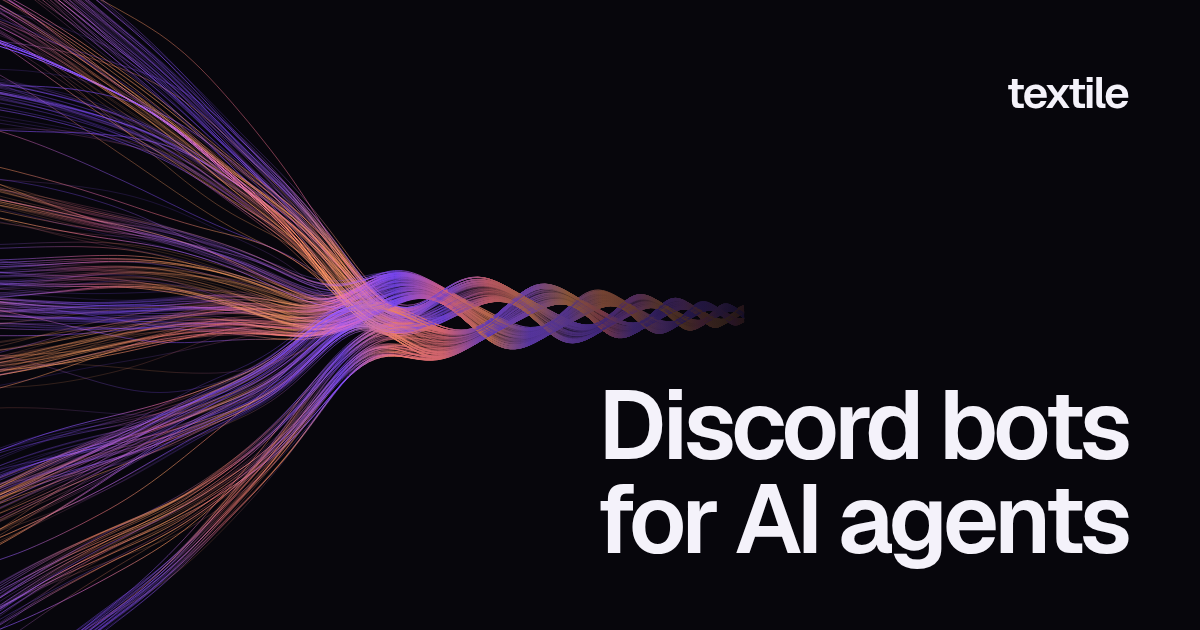
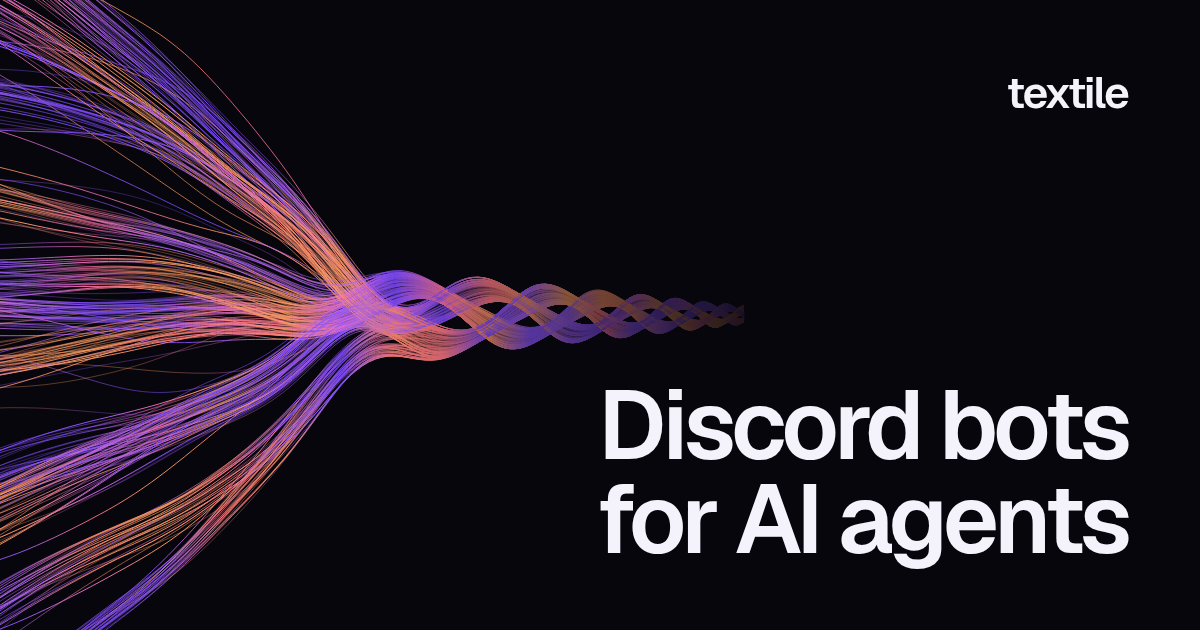
fix(web): loose fibres glow as the same light fanned out, and dim only right behind text
- A loose fibre's own light no longer skews dark: the dimmest gives 0.22 of the brightest, not 0.1, and the spread
  is squared rather than cubed. Loose, it glows 1.7 times that, in the hero and in the cord, so the current and the
  cord's spread strands read as the braid's light fanned out. The braid stays the hottest light, and the colours stay
  saturated after AgX.
- The hero's field now dims behind its headline, subline, and buttons, smoothly and only there, as the cord already
  did behind section prose; the cord dims further there, to 4% over a 120px fade, so the brighter strands and their
  glare stay off the words. Measured over the brightest 1% of field pixels behind each, with text shadows off: the
  headline at 4.6:1 (large text, needs 3:1), the subline 11.7:1, the section prose 6.9 to 7.8:1.

Changed region(s): [[0.0, 0.0, 0.3083, 1.0]]

diff --git a/apps/web/src/lib/threads/shaders.ts b/apps/web/src/lib/threads/shaders.ts
@@ -10,7 +10,16 @@ import {
   TEXELS,
   UNBRAID,
 } from './cord'
-import { CROWD, MAX_LABELS, OKLAB, SEGMENTS, SHAPE } from './geometry'
+import {
+  CROWD,
+  MAX_LABELS,
+  MAX_TEXT,
+  OKLAB,
+  SEGMENTS,
+  SHAPE,
+  TEXT_FADE,
+  TEXT_LIGHT,
+} from './geometry'
 
 /** A matrix given by rows as a shader's mat3 arguments, which run by columns. */
 const columns = (rows: ReadonlyArray<ReadonlyArray<number>>) =>
@@ -45,9 +54,10 @@ const OKLAB_RGB = columns(OKLAB.rgb)
  *   4–7  labels: at, lane
  *   8–9  colours: violet, amber
  *   10 background rgb, exposure
- *   11 where the plait is whole, where the bundles start to gather, -, -
+ *   11 where the plait is whole, where the bundles start to gather, how many text boxes, -
+ *   12–14  text boxes over the field: left, top, right, bottom
  */
-export const UNIFORM_VEC4S = 12
+export const UNIFORM_VEC4S = 15
 export const VERTICES_PER_THREAD = (SEGMENTS + 1) * 2
 /** The first bloom target's size, as a fraction of the canvas's CSS size: the same glare at every pixel ratio. */
 export const BLOOM_SCALE = 0.25
@@ -157,6 +167,8 @@ const constants = (declare: (name: string, value: string) => string) =>
     declare('SPIN', float(SHAPE.spin)),
     declare('LABELLED', float(SHAPE.labelled)),
     declare('DIM', float(SHAPE.dim)),
+    declare('SKEW', float(SHAPE.skew)),
+    declare('GLOW', float(SHAPE.glow)),
     declare('COHERENCE', float(SHAPE.coherence)),
     declare('GRADIENT', float(SHAPE.gradient)),
     declare('BRAID_GRADIENT', float(SHAPE.braidGradient)),
@@ -201,6 +213,10 @@ const constants = (declare: (name: string, value: string) => string) =>
     declare('LEVELS', float(BLOOM_LEVELS)),
     // How much more saturated than AgX's base look the tone map leaves colour.
     declare('SATURATION', float(1.5)),
+    // How much light shows behind text over the hero's field, and where its dimming fades: see behindText in geometry.ts.
+    declare('TEXT_LIGHT', float(TEXT_LIGHT)),
+    declare('TEXT_FADE_IN', float(TEXT_FADE[0])),
+    declare('TEXT_FADE_OUT', float(TEXT_FADE[1])),
   ].join('\n')
 
 /** What every WGSL thread module and the tone pass share, for a scene of `vec4s` uniforms. */
@@ -408,6 +424,17 @@ fn threadOf(i: f32) -> Thread {
   return Thread(lane, pin, leaves, joins, strandOf(side), phase, fibre(i, across), ribbon, wander, select(1.0, TRACED, lead));
 }
 
+// How much of a thread's light shows at p: less behind the text over the field. Mirrors behindText in geometry.ts.
+fn behindText(p: vec2f) -> f32 {
+  var light = 1.0;
+  for (var r = 0u; r < u32(U[11].z); r++) {
+    let box = U[12u + r];
+    let outside = max(max(box.x - p.x, p.x - box.z), max(box.y - p.y, p.y - box.w));
+    light = min(light, mix(TEXT_LIGHT, 1.0, smoothstep(TEXT_FADE_IN, TEXT_FADE_OUT, outside)));
+  }
+  return light;
+}
+
 // Where a thread is u along it: in CSS px, how far it has gathered into its strand (0 to 1), how far the plait has
 // grown, and its strand's depth in the plait.
 struct Placed { at: vec2f, braided: f32, plait: f32, depth: f32 };
@@ -464,17 +491,17 @@ fn vs(@builtin(vertex_index) vi: u32, @builtin(instance_index) ii: u32) -> Out {
   let breathing = breath(th.strand, u, t);
   let hue = hueOf(u, eased(U[3].x, mix(U[3].x, U[11].x, PLAIT), u), mix(pick, th.strand / 3.0, here.braided), t, breathing);
   let colour = blend(cool(warmth(hue), here.depth, knit));
-  var own = DIM + (1.0 - DIM) * pow(hash(i + 2.2), 3.0);
+  var own = DIM + (1.0 - DIM) * pow(hash(i + 2.2), SKEW);
   if (th.lead > 1.0) { own = 1.0; }
   if (i < U[3].w) { own = LABELLED; }
   // Bands in front of the braid catch the light; those behind fall into shadow. Many threads share the braid, so
   // each gives less light there, its band's edges more than its inside.
-  let shade = mix(own, braidLight(here.depth, th.fibre, own), knit) * th.lead * (1.0 + BREATH_LIGHT * breathing) * smoothstep(0.0, 0.06, u);
+  let shade = mix(own * GLOW, braidLight(here.depth, th.fibre, own), knit) * th.lead * (1.0 + BREATH_LIGHT * breathing) * smoothstep(0.0, 0.06, u);
 
   var out: Out;
   let res = U[0].xy;
   out.clip = vec4f(pos.x / res.x * 2.0 - 1.0, 1.0 - pos.y / res.y * 2.0, 0.0, 1.0);
-  out.colour = colour * shade * U[3].z;
+  out.colour = colour * shade * U[3].z * behindText(here.at);
   out.across = side;
   out.pulse = vec2f(
     u * PULSES - t * PULSE_SPEED * PULSES + hash(i + 6.6) * (1.0 - here.braided),
@@ -723,6 +750,17 @@ Thread threadOf(float i) {
   return Thread(lane, pin, leaves, joins, strandOf(side), phase, fibre(i, across), ribbon, wander, lead ? TRACED : 1.0);
 }
 
+float behindText(vec2 p) {
+  float light = 1.0;
+  for (int r = 0; r < ${MAX_TEXT}; r++) {
+    if (float(r) >= U[11].z) break;
+    vec4 box = U[12 + r];
+    float outside = max(max(box.x - p.x, p.x - box.z), max(box.y - p.y, p.y - box.w));
+    light = min(light, mix(TEXT_LIGHT, 1.0, smoothstep(TEXT_FADE_IN, TEXT_FADE_OUT, outside)));
+  }
+  return light;
+}
+
 struct Placed { vec2 at; float braided; float plait; float depth; };
 
 Placed place(Thread th, float u) {
@@ -770,12 +808,12 @@ void main() {
   float breathing = breath(th.strand, u, t);
   float hue = hueOf(u, eased(U[3].x, mix(U[3].x, U[11].x, PLAIT), u), mix(pick, th.strand / 3.0, here.braided), t, breathing);
   vec3 colour = blend(cool(warmth(hue), here.depth, knit));
-  float own = i < U[3].w ? LABELLED : th.lead > 1.0 ? 1.0 : DIM + (1.0 - DIM) * pow(hash(i + 2.2), 3.0);
-  float shade = mix(own, braidLight(here.depth, th.fibre, own), knit) * th.lead * (1.0 + BREATH_LIGHT * breathing) * smoothstep(0.0, 0.06, u);
+  float own = i < U[3].w ? LABELLED : th.lead > 1.0 ? 1.0 : DIM + (1.0 - DIM) * pow(hash(i + 2.2), SKEW);
+  float shade = mix(own * GLOW, braidLight(here.depth, th.fibre, own), knit) * th.lead * (1.0 + BREATH_LIGHT * breathing) * smoothstep(0.0, 0.06, u);
 
   vec2 res = U[0].xy;
   gl_Position = vec4(pos.x / res.x * 2.0 - 1.0, 1.0 - pos.y / res.y * 2.0, 0.0, 1.0);
-  vColour = colour * shade * U[3].z;
+  vColour = colour * shade * U[3].z * behindText(here.at);
   vAcross = side;
   vPulse = vec2(
     u * PULSES - t * PULSE_SPEED * PULSES + hash(i + 6.6) * (1.0 - here.braided),
@@ -930,9 +968,9 @@ const cordConstants = (declare: (name: string, value: string) => string) =>
     declare('DRIFT_SPAN', float(DRIFT_SPAN)),
     // How far above its tip the cord fades into the page, in px: 14rem.
     declare('FADE', float(224)),
-    // How bright loose strands are, behind a section, and how much of that shows behind its prose.
-    declare('LOOSE_LIGHT', float(0.55)),
-    declare('COPY_LIGHT', float(0.2)),
+    // How much of the strands' light shows behind a section's prose.
+    declare('COPY_LIGHT', float(0.04)),
+    declare('COPY_FADE', float(120)),
     declare('LOOSE_HUE', float(LOOSE_HUE)),
     // How many of a peeling strand's fibres, along its outer edge, carry the lead on when it peels from the cord.
     declare('PEEL_LEAD', float(PEEL_LEAD)),
@@ -1026,13 +1064,14 @@ fn place(th: Thread, k: f32) -> Placed {
   return Placed(a.xy + vec2f(drift, 0.0) + c.xy * mix(plait, rope, apart), loose, apart, depthOf(twist), b.x, c.z, b.w, c.w);
 }
 
-// How much light shows at p: less behind a section's prose, fading in over a few pixels around it.
+// How much light shows at p: less behind a section's prose, fading back in over COPY_FADE px around it, so neither
+// the strands nor their glare cross the words.
 fn behindCopy(p: vec2f) -> f32 {
   var light = 1.0;
   for (var r = 0u; r < u32(U[2].z); r++) {
     let box = U[11u + r];
     let outside = max(max(box.x - p.x, p.x - box.z), max(box.y - p.y, p.y - box.w));
-    light = min(light, mix(COPY_LIGHT, 1.0, smoothstep(-8.0, 40.0, outside)));
+    light = min(light, mix(COPY_LIGHT, 1.0, smoothstep(0.0, COPY_FADE, outside)));
   }
   return light;
 }
@@ -1068,9 +1107,9 @@ fn vs(@builtin(vertex_index) vi: u32, @builtin(instance_index) ii: u32) -> Out {
   // The lead burns brighter all the way down, on the cord and on the strand that carries it on where the cord ends:
   // TRACED times the brightest of the rest.
   let leads = th.lead * here.leads;
-  let own = mix(DIM + (1.0 - DIM) * pow(hash(i + 2.2), 3.0), 1.0, leads);
+  let own = mix(DIM + (1.0 - DIM) * pow(hash(i + 2.2), SKEW), 1.0, leads);
   let lead = 1.0 + (TRACED - 1.0) * leads;
-  let shade = mix(own * LOOSE_LIGHT, braidLight(here.depth, th.fibre, own), knit) * lead * (1.0 + BREATH_LIGHT * breathing);
+  let shade = mix(own * GLOW, braidLight(here.depth, th.fibre, own), knit) * lead * (1.0 + BREATH_LIGHT * breathing);
   // The cord fades out over FADE above its tip, and dims behind prose.
   let tip = 1.0 - smoothstep(U[1].z - FADE, U[1].z, here.at.y);
 
@@ -1165,7 +1204,7 @@ float behindCopy(vec2 p) {
     if (float(r) >= U[2].z) break;
     vec4 box = U[11 + r];
     float outside = max(max(box.x - p.x, p.x - box.z), max(box.y - p.y, p.y - box.w));
-    light = min(light, mix(COPY_LIGHT, 1.0, smoothstep(-8.0, 40.0, outside)));
+    light = min(light, mix(COPY_LIGHT, 1.0, smoothstep(0.0, COPY_FADE, outside)));
   }
   return light;
 }
@@ -1192,9 +1231,9 @@ void main() {
   float hue = hueOf(0.0, 0.0, th.strand / 3.0 + LOOSE_HUE * (pick - 0.5) * here.loose, t, breathing) + here.hue + U[2].y;
   vec3 colour = blend(cool(warmth(hue), here.depth, knit));
   float leads = th.lead * here.leads;
-  float own = mix(DIM + (1.0 - DIM) * pow(hash(i + 2.2), 3.0), 1.0, leads);
+  float own = mix(DIM + (1.0 - DIM) * pow(hash(i + 2.2), SKEW), 1.0, leads);
   float lead = 1.0 + (TRACED - 1.0) * leads;
-  float shade = mix(own * LOOSE_LIGHT, braidLight(here.depth, th.fibre, own), knit) * lead * (1.0 + BREATH_LIGHT * breathing);
+  float shade = mix(own * GLOW, braidLight(here.depth, th.fibre, own), knit) * lead * (1.0 + BREATH_LIGHT * breathing);
   float tip = 1.0 - smoothstep(U[1].z - FADE, U[1].z, here.at.y);
 
   vec2 res = U[0].xy;

diff --git a/apps/web/src/lib/threads/geometry.ts b/apps/web/src/lib/threads/geometry.ts
@@ -37,7 +37,28 @@ export interface Field {
   readonly intensity: number
   /** The first threads carry these labels, in order. At most four. */
   readonly labels: ReadonlyArray<Label>
+  /**
+   * Boxes of text over the field, as left, top, right, bottom in its pixels: threads passing behind them dim, smoothly
+   * and only there, so the text reads over the field's light. At most MAX_TEXT.
+   */
+  readonly text?: ReadonlyArray<readonly [left: number, top: number, right: number, bottom: number]>
 }
+
+export const MAX_TEXT = 3
+/**
+ * How much of a thread's light shows behind text, and how its dimming fades out: from TEXT_FADE[0] px inside a text
+ * box's edge to TEXT_FADE[1] px outside it.
+ */
+export const TEXT_LIGHT = 0.25
+export const TEXT_FADE = [-8, 32] as const
+
+/** How much of a thread's light shows at `x`, `y` on `field`: less behind its text. Mirrors `behindText` in the shaders. */
+export const behindText = (field: Field, x: number, y: number) =>
+  (field.text ?? []).slice(0, MAX_TEXT).reduce((light, [left, top, right, bottom]) => {
+    const outside = Math.max(left - x, x - right, top - y, y - bottom)
+    const t = Math.min(1, Math.max(0, (outside - TEXT_FADE[0]) / (TEXT_FADE[1] - TEXT_FADE[0])))
+    return Math.min(light, TEXT_LIGHT + (1 - TEXT_LIGHT) * t * t * (3 - 2 * t))
+  }, 1)
 
 export const MAX_LABELS = 4
 /** Points along each thread, spaced by `along`. Enough for smooth curves at 2000px wide. */
@@ -168,8 +189,15 @@ export const SHAPE = {
   spin: 0.9,
   /** How bright a labelled thread is, against 1 for the brightest of the rest: its fibre stands out on the dark. */
   labelled: 2,
-  /** The dimmest thread's brightness, against 1 for the brightest: low, so the dark shows between bright fibres. */
-  dim: 0.1,
+  /**
+   * A thread's own brightness, against 1 for the brightest: `dim` + (1 − `dim`) × a random number to the power `skew`,
+   * so most fibres are moderate and a few bright, and none so dim it reads as background. Loose, a fibre glows `glow`
+   * times that: the braid stays the hottest light, but a loose strand reads as the same light fanned out, not a dimmed
+   * copy of it.
+   */
+  dim: 0.22,
+  skew: 2,
+  glow: 1.7,
   /** The share of threads that take their ribbon's colour phase, not their own: high, so colours run in bundles. */
   coherence: 0.9,
   /**
@@ -560,9 +588,9 @@ export const warmth = (field: Field, i: number, u: number, t: number, braided: n
 }
 
 /**
- * A thread's brightness, as the shaders pick it, `knitted` (0 to 1) of the way into the plait: there a band's edge
- * fibres burn brighter and its inner ones dimmer. The lead burns brighter all the way. Breathing is left out: the 2D
- * renderers draw one still frame.
+ * A thread's brightness, as the shaders pick it, `knitted` (0 to 1) of the way into the plait: loose, it glows; there
+ * a band's edge fibres burn brighter and its inner ones dimmer. The lead burns brighter all the way. Breathing is left
+ * out: the 2D renderers draw one still frame.
  */
 export const brightness = (field: Field, i: number, knitted = 0) => {
   const own =
@@ -570,10 +598,11 @@ export const brightness = (field: Field, i: number, knitted = 0) => {
       ? SHAPE.labelled
       : isTraced(i)
         ? 1
-        : SHAPE.dim + (1 - SHAPE.dim) * hash(i + 2.2) ** 3
+        : SHAPE.dim + (1 - SHAPE.dim) * hash(i + 2.2) ** SHAPE.skew
   // Inside a band the fibres glow more evenly than in the funnel: the cube root of their own brightness.
   const inBand = thread(field, i).edge ? SHAPE.edgeLight : SHAPE.innerLight * Math.cbrt(own)
-  return (own + (inBand - own) * knitted) * (isTraced(i) ? SHAPE.traced : 1)
+  const loose = own * SHAPE.glow
+  return (loose + (inBand - loose) * knitted) * (isTraced(i) ? SHAPE.traced : 1)
 }
 
 /**

diff --git a/apps/web/src/routes/+page.svelte b/apps/web/src/routes/+page.svelte
@@ -146,6 +146,19 @@ function copyBox() {
   return { right: copy.right - origin.left, bottom: copy.bottom - origin.top }
 }
 
+/**
+ * The hero's text, as boxes in the field's pixels: the headline, the subline, and the buttons. The field dims behind
+ * each, only there, so the text reads over its light.
+ */
+function textBoxes(): NonNullable<Field['text']> {
+  if (!heroSection || !heroCopy) return []
+  const origin = heroSection.getBoundingClientRect()
+  return [...heroCopy.querySelectorAll('h1, .lede, .actions')].map((element) => {
+    const r = element.getBoundingClientRect()
+    return [r.left - origin.left, r.top - origin.top, r.right - origin.left, r.bottom - origin.top]
+  })
+}
+
 /** The hero: hundreds of threads streaming in from the left, braiding into the Discord window's left edge. */
 function hero(
   { width, height }: { width: number; height: number },
@@ -167,7 +180,11 @@ function hero(
       intensity: 0.75,
       labels: [],
     } satisfies Omit<Field, 'braid'>
-    const field: Field = { ...shape, braid: braidBetween(shape, 0, copy?.right ?? width * 0.45) }
+    const field: Field = {
+      ...shape,
+      braid: braidBetween(shape, 0, copy?.right ?? width * 0.45),
+      text: textBoxes(),
+    }
     seam = seamOf(field)
     const labelled = width >= LABELLED && height >= LABELLED_HEIGHT
     return { ...field, labels: labelled ? LABELS.filter((label) => clearOfCopy(field, label)) : [] }
@@ -189,6 +206,7 @@ function hero(
   return {
     ...shape,
     braid: braidBetween(shape, 1, copy?.bottom ?? height * 0.5),
+    text: textBoxes(),
   }
 }
 

diff --git a/apps/web/src/lib/threads/renderer.ts b/apps/web/src/lib/threads/renderer.ts
@@ -1,10 +1,12 @@
 import {
   along,
+  behindText,
   blend,
   brightness,
   type Field,
   knit,
   MAX_LABELS,
+  MAX_TEXT,
   position,
   SEGMENTS,
   thread,
@@ -51,7 +53,9 @@ const pack = (canvas: HTMLCanvasElement, field: Field, palette: Palette, time: n
     u.set([label.at, label.lane], 16 + i * 4)
   for (const [i, rgb] of palette.threads.entries()) u.set(rgb, 32 + i * 4)
   u.set([...palette.background, EXPOSURE], 40)
-  u.set([whole, gathers], 44)
+  const text = (field.text ?? []).slice(0, MAX_TEXT)
+  u.set([whole, gathers, text.length], 44)
+  for (const [i, box] of text.entries()) u.set(box, 48 + i * 4)
   return u
 }
 
@@ -131,7 +135,7 @@ export function still(canvas: HTMLCanvasElement): Renderer | undefined {
             x,
             y,
             rgb: mixed(warmth(field, i, u, time, braided)),
-            alpha: 0.8 * light * field.intensity,
+            alpha: 0.8 * light * field.intensity * behindText(field, x, y),
           }
         })
         // In short pieces, each a gradient from its first point's colour to its last's, so the colour follows the

diff --git a/apps/web/src/lib/threads/cordRenderer.ts b/apps/web/src/lib/threads/cordRenderer.ts
@@ -138,7 +138,7 @@ export function cordStill(canvas: HTMLCanvasElement): CordRenderer | undefined {
       const th = cordThread(i)
       const span = laid.paths[th.path]
       if (!span || span.count < 2) return []
-      const own = 0.5 * (SHAPE.dim + (1 - SHAPE.dim) * hash(i + 2.2))
+      const own = 0.5 * SHAPE.glow * (SHAPE.dim + (1 - SHAPE.dim) * hash(i + 2.2) ** SHAPE.skew)
       const points = Array.from({ length: span.count }, (_, k) => {
         const { warmth, leads } = cordWarmth(laid, i, span.first + k, time, th)
         return {
